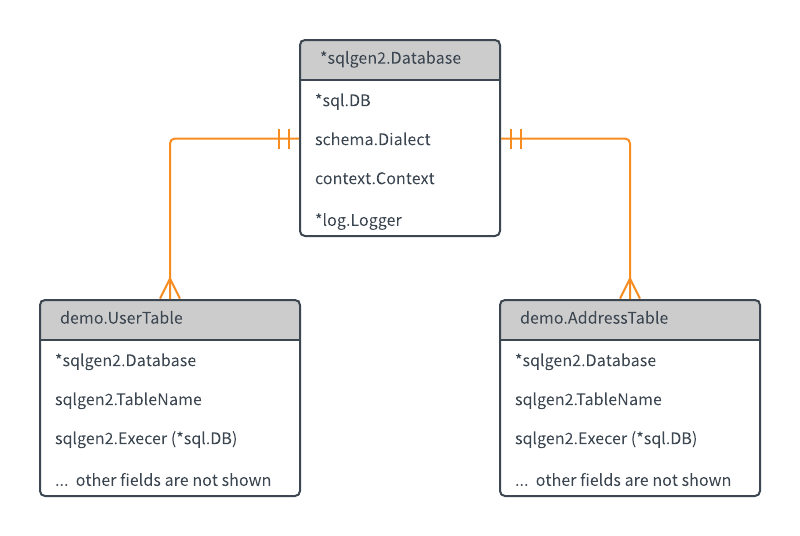
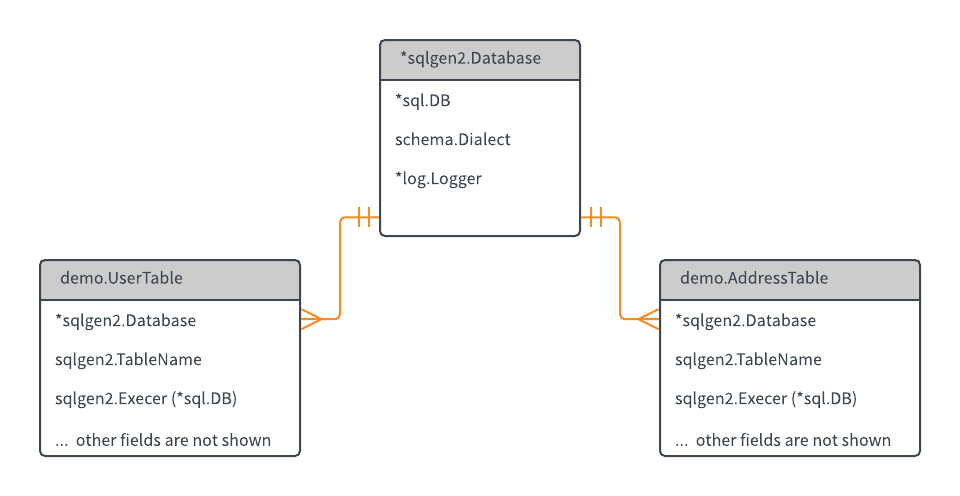
Documentation

Changed region(s): [[0.0312, 0.0605, 0.9688, 0.9375]]

diff --git a/docs/tutorial.md b/docs/tutorial.md
@@ -80,9 +80,9 @@ The two generated structs are related to a provided type called `Database`.
 
 ![database-and-tables](database-and-tables.png)
 
-Although `UserTable` and `AddressTable` both implement the `sqlgen2.Table` interface, they are not directly related to each other.
-
 You normally have exactly one [`*Database`](https://godoc.org/github.com/rickb777/sqlgen2#Database) in your app for each `*sql.DB` connection. The `*Database` also holds the query logger (if you need one).
+
+Although `UserTable` and `AddressTable` both implement the `sqlgen2.Table` interface, they are not directly related to each other. By convention, they are passed by copy instead of as pointers. This allows some fluent methods to make local alterations - especially the `WithPrefix` and `WithContext` methods (e.g. in [address_sql.go](../demo/address_sql.go)).
 
 
 ## Controlling What the Columns Mean
